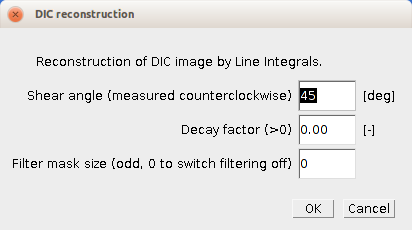
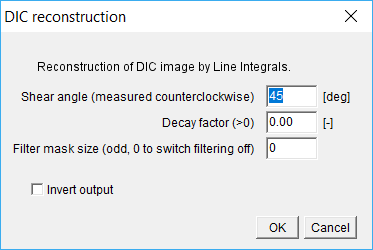
Added description of #261

diff --git a/Docs/QuimP_Guide.tex b/Docs/QuimP_Guide.tex
@@ -570,7 +570,7 @@ The DIC plugin provided with QuimP allows to convert DIC samples into form more 
 Once loaded into ImageJ/Fiji click DIC filter in QuimP bar. Only 8-bits images are supported (256 gray levels).
 
 \textbf{Step 2: Set correct parameters}
-There are two important parameters: \textit{Shear} angle and \textit{Decay} (Fig. \ref{fig:dicdialog}). The \textit{Shear} parameter is the shear angle of DIC microscopy measured counterclockwise, whereas \textit{Decay} is described in details at \cite{Kam1998}. The \textit{Decay} factor depends mainly on the size of cells and the best results are usually achieved experimentally.
+There are two important parameters: \textit{Shear} angle and \textit{Decay} (Fig. \ref{fig:dicdialog}). The \textit{Shear} parameter is the shear angle of DIC microscopy measured counterclockwise, whereas \textit{Decay} is described in details at \cite{Kam1998}. The \textit{Decay} factor depends mainly on the size of cells and the best results are usually achieved experimentally. \textit{Invert output} option inverses colorscale in reconstructed image.
 
 Reconstructed image can be affected by linear pattern that can be filtered by running mean filter activated if \textit{Filter mask size} is greater than 0. Smoothing filter is applied before processing for angle perpendicular to given \textit{Shear}\footnote{Currently, smoothing can be used only with the following shear angles: 0, 45, 90, 135. For another values it will run for closest multiplicity of 45 degrees.}.
    
@@ -583,7 +583,7 @@ Reconstructed image can be affected by linear pattern that can be filtered by ru
 
 \noindent\fcolorbox{red}{yellow}{
 	\parbox{\textwidth} {
-		If objects (cells) in reconstructed image are darker than background, the image should be inversed before processing it in BOA module. Use \texttt{Edit$\rightarrow$Invert} to do that. Refer to section \ref{sec:BOAPlugin}.
+		If objects (cells) in reconstructed image are darker than background, the image should be inverted before further processing in BOA module. One can use ImageJ option \texttt{Edit$\rightarrow$Invert} or tick \textit{Invert output} in plugin window. Refer to section \ref{sec:BOAPlugin}.
 	}
 }
 
